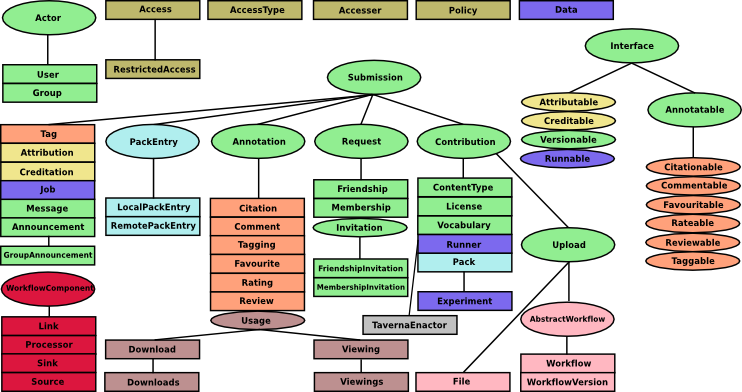
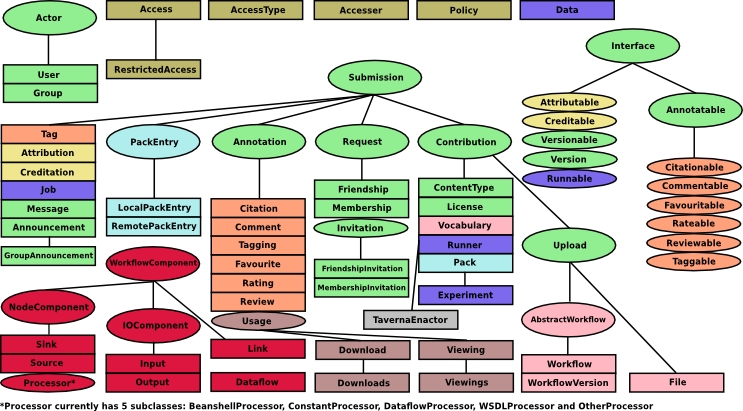
Updated ontologies folder Added data.rdf.gz symlink Added/updated appropriate images for ontologies index page

diff --git a/http/css/style.css b/http/css/style.css
@@ -24,7 +24,7 @@ body{
 }
 .login{
 	width: 270px;
-	height: 150px;
+	height: 190px;
 	background-color: #D8BFD8;
         border: 2px solid #4B0082;
         padding: 10px;

diff --git a/http/ontologies/index.php b/http/ontologies/index.php
@@ -1,8 +1,7 @@
 <?php
 	ini_set('include_path','../inc');
-	$pagetitle="Ontology Modules";
+	$pagetitle="Ontology";
 	include('header.inc.php');
-	include('settings.inc.php');
 ?>
 <p><a href="http://www.myexperiment.org/" title="myExperiment Homepage">myExperiment</a> is a collaborative environment where scientists can safely publish their workflows and experiment plans, share them with groups and find those of others.  (Please see <a href="http://wiki.myexperiment.org/index.php/Main_Page" title="myExperiment Wiki Homepage">the myExperiment Wiki</a> for more detailed information).  This results in the myExperiment data model having three main underlying features:</p>
 <ul>
@@ -12,7 +11,7 @@
 </ul>
 <p>These features are the main focus of the myExperiment Ontology. Fig.1 gives a rough outline of how the main entities of myExperiment interact.</p>
 <div align="center">
-  <img src="../img/base_module_relationships.png" title="myExperiment's Main Entities Diagram"/>
+  <img src="/img/base_module_relationships.png" title="myExperiment's Main Entities Diagram"/>
   <p><b>Fig.1</b> The Main Entities of the myExperiment</p>
 </div>
 
@@ -32,22 +31,22 @@
 
 <p>It was decided to construct the ontology in a modularized way to further encourage reuse, where others could pick and choose the modules they wanted to use.  The myExperiment ontology currently has 10 modules:</p>
 <ul>
-  <li><b><a href="<?= $guidedatauri ?>ontologies/snarm/">SNARM</a></b> or Simple Network Access Rights Management defines Policies for describing who can do what with certain objects.</li>
-  <li><b><a href="<?= $guidedatauri ?>ontologies/base/">Base</a></b> provides the base elements required by myExperiment for content management, social networking and object annotation.)</li>
-  <li><b><a href="<?= $guidedatauri ?>ontologies/attrib_credit/">Attributions &amp; Creditations</a></b> allows contributions to give attribution to earlier contributions and pay credit to users and groups involved in their creation.</li>
-  <li><b><a href="<?= $guidedatauri ?>ontologies/annotations/">Annotations</a></b> provides the different types of annotations used in myExperiment.</li>
-  <li><b><a href="<?= $guidedatauri ?>ontologies/packs/">Packs</a></b> facilitates the use of packs to aggregate contributions and remote urls together. (<a href="#Packs">More Information</a>)</li>
-  <li><b><a href="<?= $guidedatauri ?>ontologies/experiments/">Experiments</a></b> contains the classes required to create experiments and annotate them with jobs that have been or are scheduled to run. (<a href="#Experiments">More Information</a>)</li>
-  <li><b><a href="<?= $guidedatauri ?>ontiologies/viewings_downloads/">Viewings &amp; Downloads</a></b> allows usage statistics on the viewings and downloads of contributions to be recorded.</li>
-  <li><b><a href="<?= $guidedatauri ?>ontologies/contributions/">Contributions</a></b> provides the different types of contributions used in myExperiment.</li>
-  <li><b><a href="<?= $guidedatauri ?>ontologies/components/">Components</a></b> allows components within workflows to be represented.  (<a href="#Components">More Information)</li>
-  <li><b><a href="<?= $guidedatauri ?>ontologies/specific/">Specific</a></b> provides classes and objects specific to myExperiment, including SNARM AccessTypes, CreativeCommons Licenses, the TavernaEnactor (a Taverna specific Runner) and the myExperiment AnonymousUser.</li>
+  <li><b><a href="http://rdf.myexperiment.org/ontologies/snarm/">SNARM</a></b> or Simple Network Access Rights Management defines Policies for describing who can do what with certain objects.</li>
+  <li><b><a href="http://rdf.myexperiment.org/ontologies/base/">Base</a></b> provides the base elements required by myExperiment for content management, social networking and object annotation.)</li>
+  <li><b><a href="http://rdf.myexperiment.org/ontologies/attrib_credit/">Attributions &amp; Creditations</a></b> allows contributions to give attribution to earlier contributions and pay credit to users and groups involved in their creation.</li>
+  <li><b><a href="http://rdf.myexperiment.org/ontologies/annotations/">Annotations</a></b> provides the different types of annotations used in myExperiment.</li>
+  <li><b><a href="http://rdf.myexperiment.org/ontologies/packs/">Packs</a></b> facilitates the use of packs to aggregate contributions and remote urls together. (<a href="#Packs">More Information</a>)</li>
+  <li><b><a href="http://rdf.myexperiment.org/ontologies/experiments/">Experiments</a></b> contains the classes required to create experiments and annotate them with jobs that have been or are scheduled to run. (<a href="#Experiments">More Information</a>)</li>
+  <li><b><a href="http://rdf.myexperiment.org/ontologies/viewings_downloads/">Viewings &amp; Downloads</a></b> allows usage statistics on the viewings and downloads of contributions to be recorded.</li>
+  <li><b><a href="http://rdf.myexperiment.org/ontologies/contributions/">Contributions</a></b> provides the different types of contributions used in myExperiment.</li>
+  <li><b><a href="http://rdf.myexperiment.org/ontologies/components/">Components</a></b> allows components within workflows to be represented.  (<a href="#Components">More Information)</li>
+  <li><b><a href="http://rdf.myexperiment.org/ontologies/specific/">Specific</a></b> provides classes and objects specific to myExperiment, including SNARM AccessTypes, CreativeCommons Licenses, the TavernaEnactor (a Taverna specific Runner) and the myExperiment AnonymousUser.</li>
 </ul>
 <p>Fig.2 is a class hierarchy diagram for all the classes used in the myExperiment ontology, colour-coded by the module they belong to.</p>
 <div align="center">
-  <img src="../img/class_hierarchy.png" title="myExperiment Ontology Class Hierarchy Diagram (Colour-coded)"/>
+  <img src="/img/class_hierarchy.png" title="myExperiment Ontology Class Hierarchy Diagram (Colour-coded)"/>
    <table class="key">
-<tr><td><img src="../img/oval.png" alt="Oval"/></td><td>Abstract Class</td><td>&nbsp;</td><td><img src="../img/rectangle.png" alt="Rectangle"/></td><td>myExperiment Object Class</td></tr>
+<tr><td><img src="/img/oval.png" alt="Oval"/></td><td>Abstract Class</td><td>&nbsp;</td><td><img src="/img/rectangle.png" alt="Rectangle"/></td><td>myExperiment Object Class</td></tr>
   </table>
   <table class="key">
 <tr><td class="box" style="background-color: DarkKhaki;">&nbsp;</td><td>SNARM&nbsp;</td><td class="box" style="background-color: LightGreen;">&nbsp;</td><td>Base&nbsp;</td><td class="box" style="background-color: Khaki;">&nbsp;</td><td>Attributions &amp; Creditations&nbsp;</td><td class="box" style="background-color: LightSalmon">&nbsp;</td><td>Annotations</td><td class="box" style="background-color: MediumSlateBlue;">&nbsp;</td><td>Experiments&nbsp;</td></tr>
@@ -58,9 +57,9 @@
   <br/>
   <p><b>Fig.2</b> Class Hierarchy Diagram for Ontology Modules</p>
 </div>
-<p><a href="/example/" title="RDF Examples">RDF examples</a> for most of the classes described in Fig.2 are <a href="/example/" title="RDF Examples">available</a>.  Modules reuse terms from other modules as well as terms borrowed for the ontologies/schemas previously described.  Fig.3 diagrams of how modules borrow from each other with each arrow going from the borrowed-from module/ontology/schema to the borrowing module. The &quot;<a href="specific/" title="Base Ontology Module">Base</a>&quot; module is built open by all the other modules (except SNARM). The &quot;<a href="specific/" title="Specific Ontology Module">Specific</a>&quot; module is slightly different as it imports all the other modules below it.  This allows a single URI to be referred to when importing the myExperiment ontology set. Documentation explaining how all the ontology's classes and properties from the ontology can be used is available <a href="<?= $ontopath ?>specification" title="Specification of Modularized Ontology Set">here</a>.</p>
+<p><a href="/example/" title="RDF Examples">RDF examples</a> for most of the classes described in Fig.2 are <a href="/example/" title="RDF Examples">available</a>.  Modules reuse terms from other modules as well as terms borrowed for the ontologies/schemas previously described.  Fig.3 diagrams of how modules borrow from each other with each arrow going from the borrowed-from module/ontology/schema to the borrowing module. The &quot;<a href="specific/" title="Base Ontology Module">Base</a>&quot; module is built open by all the other modules (except SNARM). The &quot;<a href="specific/" title="Specific Ontology Module">Specific</a>&quot; module is slightly different as it imports all the other modules below it.  This allows a single URI to be referred to when importing the myExperiment ontology set. Documentation explaining how all the ontology's classes and properties from the ontology can be used is available <a href="http://rdf.myexperiment.org/ontologies/specification" title="Specification of Modularized Ontology Set">here</a>.</p>
 <div align="center">
-  <img src="../img/ontology_modules_architecture.png" title="myExperiment Ontology Modules Architecture"/>
+  <img src="/img/ontology_modules_architecture.png" title="myExperiment Ontology Modules Archetecture"/>
   <br/><br/>
   <p><b>Fig.3</b> Ontology Modules Architecture</p>
 </div>
@@ -68,10 +67,10 @@
 <div class="hr"></div>
 
 <h3><a name="ContentManagement">Content Management</a></h3>
-<p>The <a href="base/">Base</a> module contains two classes <a href="specification#mebase:Contribution">Contribution</a> and its subclass <a href="specification#mebase:Upload">Upload</a> to represent content objects that can be managed.  Contribution is designed to just describe content that is created online, whereas Upload is designed to represent data that is uploaded.  Upload therefore has additional properties for filename, file URL, file type and licensing.</p>
+<p>The <a href="base/">Base</a> module contains two classes <a href="specification#mebase:Contribution">Contribution</a> and its subclass <a href="specification#mebase:Upload">Upload</a> to represent content objects that can be managed.  Contribution is a superclass to describe any content that can be contributed by a User.  Upload is designed to only represent content that has been that is uploaded not created online.  Upload therefore has additional properties for filename, file URL, file type and licensing.</p>
 <p>During the course of the myExperiment project one of the key challenges was providing a flexible and user-friendly interface for user to define who can do what with their contributions.  This led to the data model becoming slightly convuluted in this area.  Therefore the <a href="snarm/" title="SNARM Ontology Module">SNARM ontology</a> was defined to try to rationalise how this information is stored in RDF form.</p>
 
-<p>SNARM uses policies which contain one or more <a href="specification#snarm:Access">Access</a> objects.  Access objects can be unrestricted or restricted to an <a href="specification#snarm:Accesser">Accesser</a> that could be a single user, a single group or a more abstract concept such as all the friends or the content owner.  The second component of an Access object is the <a href="specification#snarm:AccessType">AccessType</a> they provide, e.g. view, edit, download, etc.  These types are often quite particular and therefore <a href="specific/">Specific</a> is used to store these along with abstract Accessers (e.g. Friends) and abstract/unrestricted Access objects (e.g. FriendsEdit, PublicView).  A more detailed explantaion of SNARM can be found <a href="/snarm_explained" title="SNARM Explained">here</a>.</p>
+<p>SNARM uses policies which contain one or more <a href="specification#snarm:Access">Access</a> objects.  Access objects can be unrestricted or restricted to an <a href="specification#snarm:Accesser">Accesser</a> that could be a single user, a single group or a more abstract concept such as all the friends or the content owner.  The second component of an Access object is the <a href="specification#snarm:AccessType">AccessType</a> they provide, e.g. view, edit, download, etc.  These types are often quite particular and therefore <a href="specific/">Specific</a> is used to store these along with abstract Accessers (e.g. Friends) and abstract/unrestricted Access objects (e.g. FriendsEdit, PublicView).  A more detailed explanation of SNARM can be found <a href="/snarm_explained" title="SNARM Explained">here</a>.</p>
 
 <div class="hr"></div>
 
@@ -105,34 +104,50 @@
 </ul>
 <p>No data for the Annotation is stored as part of the Contribution rather the Contribution is pointed to by the Annotation.  Fig.4 is an RDF graph of an example Annotation:</p>
 <div align="center">
-  <img src="../img/example_tagging.png" title="Example Annotation (A Tagging)" alt="Example Annotation"/>
+  <img src="/img/example_tagging.png" title="Example Annotation (A Tagging)" alt="Example Annotation"/>
   <p><b>Fig.4</b> Example Annotation (A Tagging)</p>
 </div>
 
 <div class="hr"></div>
 
 <h3><a name="Packs">Packs</a></h3>
-<p>The Packs module provides a way for aggregating myExperiment <a href="specification#mebase:Contribution">Contributions</a> and external URLs within a single object and implements the <a href="http://www.openarchives.org/ore/" title="OAI-ORE Abstract Data Model">OAI-ORE Specification</a> (see <a href="/example/Pack">example</a>).  <a href="specification#mepack:Pack">Packs</a> are a subclass of <a href="<?= $guidedatauri?>generic/spec?ontology=13" title="OAI-ORE Specification Document">OAI-ORE schema</a>'s <a href="<?= $guidedatauri ?>generic/spec?ontology=13#Aggregation">Aggregation</a> class.  To allow metadata to be associated only with an <a href="<?= $guidedatauri ?>generic/spec?ontology=13#AggregatedResource">AggregatedResource</a> when it occurs within a particular Aggregation, the Packs module implements two ORE  <a href="<?= $guidedatauri ?>generic/spec?ontology=13#Proxy">Proxy</a> classes:</p>
+<p>The Packs module provides a way for aggregating myExperiment <a href="specification#mebase:Contribution">Contributions</a> and external URLs within a single object and implements the <a href="http://www.openarchives.org/ore/" title="OAI-ORE Abstract Data Model">OAI-ORE Specification</a> (see <a href="/example/Pack">example</a>).  <a href="specification#mepack:Pack">Packs</a> are a subclass of <a href="http://rdf.myexperiment.org/generic/spec?ontology=13" title="OAI-ORE Specification Document">OAI-ORE schema</a>'s <a href="http://rdf.myexperiment.org/generic/spec?ontology=13#Aggregation">Aggregation</a> class.  To allow metadata to be associated only with an <a href=http://rdf.myexperiment.org/generic/spec?ontology=13#AggregatedResource">AggregatedResource</a> when it occurs within a particular Aggregation, the Packs module implements two ORE  <a href="http://rdf.myexperiment.org/generic/spec?ontology=13#Proxy">Proxy</a> classes:</p>
 <ul>
   <li><a href="specification#mepack:LocalPackEntry">LocalPackEntry</a></li>
   <li><a href="specification#mepack:RemotePackEntry">RemotePackEntry</a></li>
 </ul>
-<p>Remote Pack Entries are pointers to URLs (see <a href="/example/RemotePackEntry">example</a>) whereas Local Pack Entries have a pointer (<a href="specification#mepack:requires">mepack:requires</a>) to specify the myExperiment Contribution they represent (see <a href="/example/LocalPackEntry">example</a>).  Packs contain the property  <a href="<?= $guidedatauri ?>generic/spec?ontology=13#isDescribedBy">ore:isDescribedBy</a> to allow the discovery of the associated <a href="<?= $guidedatauri ?>generic/spec?ontology=13#ResourceMap">ResourceMaps</a> allowing the Pack to be exported to another repository (see <a href="/example/PackResourceMap">example</a>).
+<p>Remote Pack Entries are pointers to URLs (see <a href="/example/RemotePackEntry">example</a>) whereas Local Pack Entries have a pointer (<a href="specification#mepack:requires">mepack:requires</a>) to specify the myExperiment Contribution they represent (see <a href="/example/LocalPackEntry">example</a>).  Packs contain the property  <a href="http://rdf.myexperiment.org/generic/spec?ontology=13#isDescribedBy">ore:isDescribedBy</a> to allow the discovery of the associated <a href="http://rdf.myexperiment.org/generic/spec?ontology=13#ResourceMap">ResourceMaps</a> allowing the Pack to be exported to another repository (see <a href="/example/PackResourceMap">example</a>).
 
 <div class="hr"></div>
 
 <h3><a name="Experiments">Experiments</a></h3>
-<p>myExperiment provides cloud services to run <a href="specification#meexp:Runnable">Runnable</a> <a href="specification#mebase:Contribution">Contributions</a> (e.g. <a href="specification#mecontrib:Workflow">Workflows</a>) in remote <a href="specification#meexp:Runner">Runners</a>.  These cloud services are provided by the <a href="experiments/">Experiments</a> module. An <a href="specification#meexp:Experiment">Experiment</a> is a specialisation of a <a href="specification#mepack:Pack">Pack</a> that aggregates <a href="specification#meexp:Job">Jobs</a>, (making Jobs <a href="<?= $guidedatauri ?>generic/spec?ontology=13#AggregatedResource">AggregatedResources</a>). Jobs are enacted workflows on a remote runner.  A Job contains all the information about the Workflow being run, the Runner being used, the inputs/outputs of the Job and status information.  The inputs and outputs of a Job have their own URIs so they can be referenced separately.  (See an <a href="../example/Job" title="Example RDF for a Job">example of a Job</a>). Like Packs, Experiments have an <a href="<?= $guidedatauri ?>generic/spec?ontology=13#isDescribedBy">ore:isDescribedBy</a> property to allow the discovery of the associated <a href="<?= $guidedatauri ?>generic/spec?ontology=13#ResourceMap">ResourceMaps</a> allowing them exported to another repository (see <a href="/example/ExperimentResourceMap">example</a>).</p>
+<p>myExperiment provides cloud services to run <a href="specification#meexp:Runnable">Runnable</a> <a href="specification#mebase:Contribution">Contributions</a> (e.g. <a href="specification#mecontrib:Workflow">Workflows</a>) in remote <a href="specification#meexp:Runner">Runners</a>.  These cloud services are provided by the <a href="experiments/">Experiments</a> module. An <a href="specification#meexp:Experiment">Experiment</a> is a specialisation of a <a href="specification#mepack:Pack">Pack</a> that aggregates <a href="specification#meexp:Job">Jobs</a>, (making Jobs <a href=http://rdf.myexperiment.org/generic/spec?ontology=13#AggregatedResource">AggregatedResources</a>). Jobs are enacted workflows on a remote runner.  A Job contains all the information about the Workflow being run, the Runner being used, the inputs/outputs of the Job and status information.  The inputs and outputs of a Job have their own URIs so they can be referenced separately.  (See an <a href="../example/Job" title="Example RDF for a Job">example of a Job</a>). Like Packs, Experiments have an <a href="http://rdf.myexperiment.org/generic/spec?ontology=13#isDescribedBy">ore:isDescribedBy</a> property to allow the discovery of the associated <a href="http://rdf.myexperiment.org/generic/spec?ontology=13#ResourceMap">ResourceMaps</a> allowing them exported to another repository (see <a href="/example/ExperimentResourceMap">example</a>).</p>
 
 <div class="hr"></div>
 
 <h3><a name="Components">Components</a></h3>
-<p>Workflows in essence are a number of interlinked processes that have initial inputs and final outputs.  Using Taverna 1 workflows as an exemplar four types of <a href="specification#mecomp:WorkflowComponent">Workflow Components</a> have been defined.</p>
+<p>Workflows in essence are a number of interlinked processes that have initial inputs and final outputs.  Using Taverna workflows as an exemplar six types of <a href="specification#mecomp:WorkflowComponent">Workflow Components</a> have been defined.</p>
 <ul>
-  <li><b><a href="specification#mecomp:Processor">Processor</a></b> A service that performs some processing on inputted data and produces an output.</li>
-  <li><b><a href="specification#mecomp:Source">Source</a></b> An input into a Processor</li>
-  <li><b><a href="specification#mecomp:Sink">Sink</a></b> An output from a Processor</li>
-  <li><b><a href="specification#mecomp:Link">Link</a></b> An connection between a Sink and a Source (or to an initial input / final output)</li>
+  <li><b><a href="specification#mecomp:Processor">Processor</a></b> A service that performs some processing on one or more Inputs and produces one or more Ouputs.</li>
+  <li><b><a href="specification#mecomp:Source">Source</a></b> An initial piece of data to be processed by the Workflow</li>
+  <li><b><a href="specification#mecomp:Sink">Sink</a></b> A final piece of data produced by the Workflow</li>
+  <li><b><a href="specification#mecomp:Input"></a></b>A piece of data going into a Processor</li>
+  <li><b><a href="specification#mecomp:Output">Output</a></b>A piece of data coming out of a Processor</li>
+  <li><b><a href="specification#mecomp:Link">Link</a></b> A connection between an Output of a Source of Processor to the Input for another Processor or Sink</li>
 </ul>
-<p>Each <a href="specificaton#mecontrib:Workflow">Workflow</a> that has been analysed for its components will have a number of <a href="specification#mecomp:has-component">has-component</a> properties that point to these components.  To view the RDF for all the components of a Workflow or <a href="specification#mecontrib:WorkflowVersion">Workflow Version</a> just add /Components to the end of the URI, (e.g. <a href="<?= $guidedatauri ?>Workflow/12/Components"><?= $datauri ?>Workflow/12/Components</a>).</p>
+<p>All these Workflow Components are encompassed within a <a href="specification#mecomp:Dataflow">Dataflow</a>. Fig. 5 shows how these Workflow Components interlink to form a Dataflow.  Currently every publicly available Taverna workflow has an <a href="specification#mecomp:executes-dataflow">executes-dataflow</a> property to it's Dataflow. </p>
+<div align="center">
+  <img src="/img/components.png" title="Overview of Organisation of Components into a Workflow" alt="Workflow Components Overview"/>
+  <p><b>Fig. 5</b> Overview of Organisation of Components into a Workflow</p>
+</div>
+<p>A Workflow may have many Processors, each must be one of the following types:</p>
+<ul>
+   <li><b><a href="specification#mecomp:BeanshellProcessor">BeanshellProcessor</a></b> This executes a Beanshell script</li>
+   <li><b><a href="specification#mecomp:ConstantProcessor">ConstantProcessor</a></b> This produces a constant output, e.g. echoes a particular string</li>
+   <li><b><a href="specification#mecomp:DataflowProcessor">DataflowProcessor</a></b> This executes another Dataflow allowing workflows to be nested.</li>
+   <li><b><a href="specification#mecomp:WSDLProcessor">WSDLProcessor</a></b> This calls a remote WSDL service </li>
+   <li><b><a href="specification#mecomp:OtherProcessor">OtherProcessor</a></b> Represent all other type of Processor.  All Processor have a <a href="specification#mecomp:processor-type">processor-type</a> property that gives a more specific categorisation for the Processor</li>
+</ul>
+<p>Due to it being possible to nest one Dataflow within another each Workflow Component has a <a href="specification#mecomp:belongs-to-worflow">belongs-to-worflow</a> that makes its possible to execute a simple SPARQL query to find all the components of a paticular workflow.</p>
+
 <?php include('footer.inc.php'); ?>

diff --git a/http/ontologies/CHANGELOG.php b/http/ontologies/CHANGELOG.php
@@ -3,9 +3,18 @@
 	$pagetitle="Changelog";
 	include('header.inc.php');
 ?>
-<p><big>This page includes the changelog for the <a href="../">myExperiment Ontology</a> and consequently myExperiment's RDF data.</big></p>
+<p><big>This page includes the changelog for the <a href=".">myExperiment Ontology</a> and consequently myExperiment's RDF data.</big></p>
 
 <ul class="changelog">
+  <li><b>05/04/2010</b> Made Vocabulary a subclass of SKOS ConceptScheme and Tag a subclass of Concept changing it's dcterms property to skos:prefLabel.</li>
+  <li><b>31/03/2010</b> Removed accessed-from-site as this can be inferred from user-agent.  Also removed retroactive assignment of human-start-page as a property restriction for Policy as there is currently no such thing exists</li>
+  <li><b>30/03/2010</b> Made Version a subclass of Interface rather than Contribution.</li>
+  <li><b>24/03/2010</b> Removed Use AccessType and associated Accesses from specific module as they are unused.</li>
+  <li><b>24/03/2010</b> Fixed syntax error changing foaf:based-near to foaf:based_near.  Added Commentable as a subclass to File and Commentable, Favouritable and Taggable to Pack and by inheritance Experiment.  Added Taggable and Commentable as a subclass to Group retroactively in the specific module.</li>
+  <li><b>22/03/2010</b> Removed cc:License definition in the specific module as these have been replaced by myExperiment's License class for which instances can be found at <a href="http://rdf.myexperiment.org/Licenses">http://rdf.myexperiment.org/Licenses</a>.</li>
+  <li><b>21/03/2010</b> Added dbpedia ontology's residence property to Users.  This essentially uses DBPedia URIs rather than text strings and should iin time replace the foaf:based_near and mebase:country properties.</li>
+  <li><b>03/02/2010</b> Anonymised usage statistics (i.e. Viewings and Downloads) are to no longer be generated.  This is due to the excessive amount of processor time taken to keep this up to date versus their actual usefulness.</li>
+  <li><b>12/01/2010</b> The Components module has been completly rewritten to encompass Dataflows and to represent extra data exposed through the new Taverna GEMs.</li> 
   <li><b>28/09/2009</b> Removed has-license property from Base module, cc:license should be used instead.</li>
   <li><b>26/08/2009</b> To improve Linked Data compliance object properties have been changed to anyURI typed datatype properties where the object of these properties is not intended to resolve to RDF. Also a file extension has been added to the filename property for workflows and workflow versions.</li>
   <li><b>22/06/2009</b> Converted mebase:uri from anyURI datatype property to an object property and replaced mepack:alternate-uri with rdfs:seeAlso.</li>
